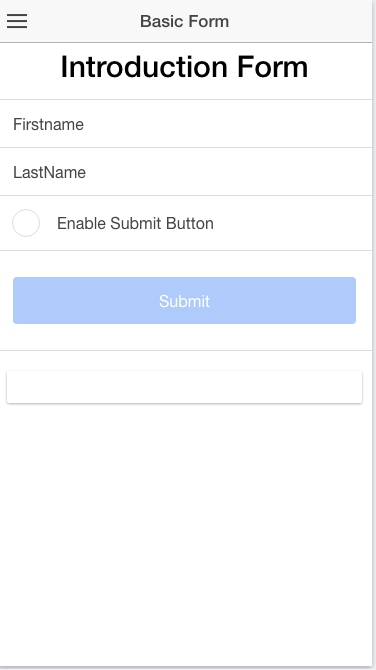
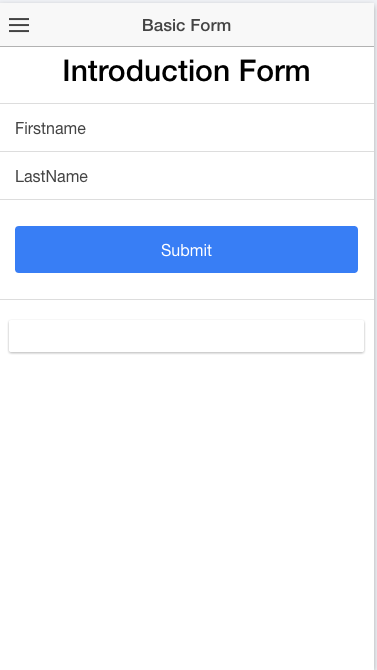
updated code and removed checkbox

diff --git a/www/templates/browse.html b/www/templates/browse.html
@@ -11,10 +11,13 @@
           <span class="input-label">LastName</span>
           <input type="text" name="lname" ng-model="loginData.lastname" required>
         </label>
-        <ion-checkbox ng-model="loginData.checked">Enable Submit Button</ion-checkbox>
-
+        <!--<ion-checkbox ng-model="loginData.checked">Enable Submit Button</ion-checkbox>-->
+        <!--<div class="item">-->
+          <!--<ion-radio id="agree" ng-model="loginData.checked" ng-value="'A'">Enable Submit Button</ion-radio>-->
+        <!--</div>-->
         <label class="item">
-          <button ng-disabled="!loginData.checked" class="button button-block button-positive" type="submit">Submit</button>
+          <!--<button ng-disabled="!loginData.checked" class="button button-block button-positive" type="submit">Submit</button>-->
+          <button ng-disabled="!true" class="button button-block button-positive" type="submit">Submit</button>
         </label>
 
       </div>
